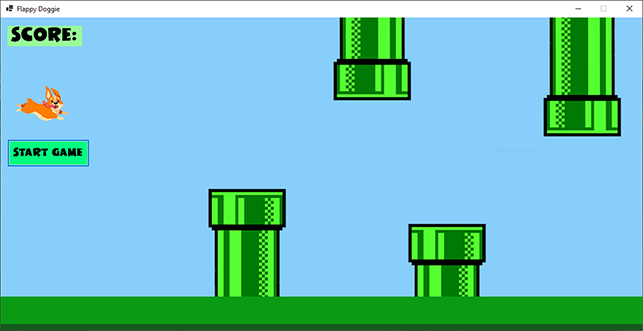
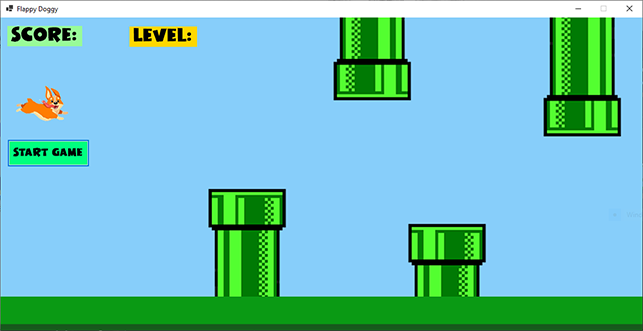
1. Updated the screenshot for the Flappy-Doggy Game project
2. Renamed the screenshot for the Rock-Paper-Scissors-Lizard-Spock Game for consistency

diff --git a/projects.html b/projects.html
@@ -150,7 +150,7 @@
                 <div class="project-container">
 
                     <div class="project-picture">
-                        <img id="project-picture1" src="./images/projects-screenshots/Screenshot 1.png" alt="">
+                        <img id="project-picture1" src="./images/projects-screenshots/Rock-Paper-Scissors-Lizard-Spock-Screenshot.png" alt="">
                     </div>
         
                     <div class="project-description">
